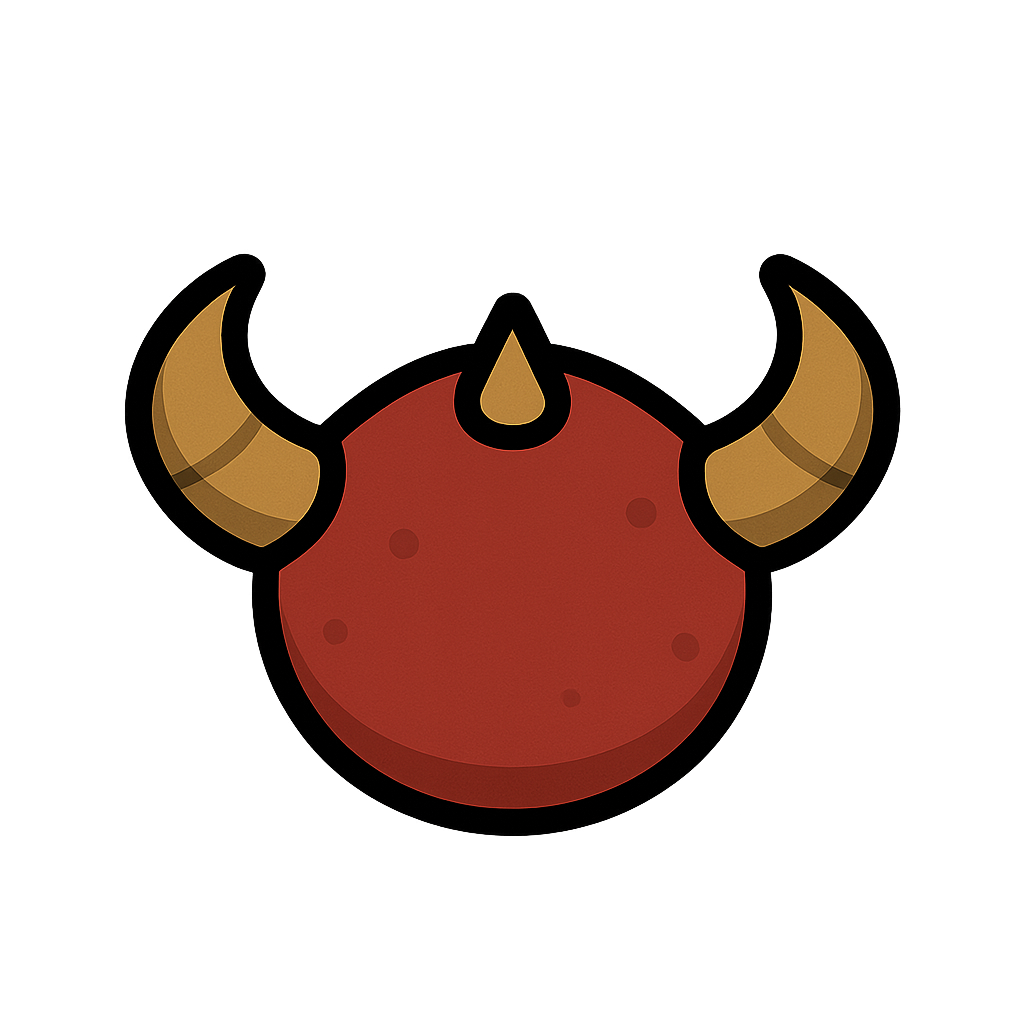
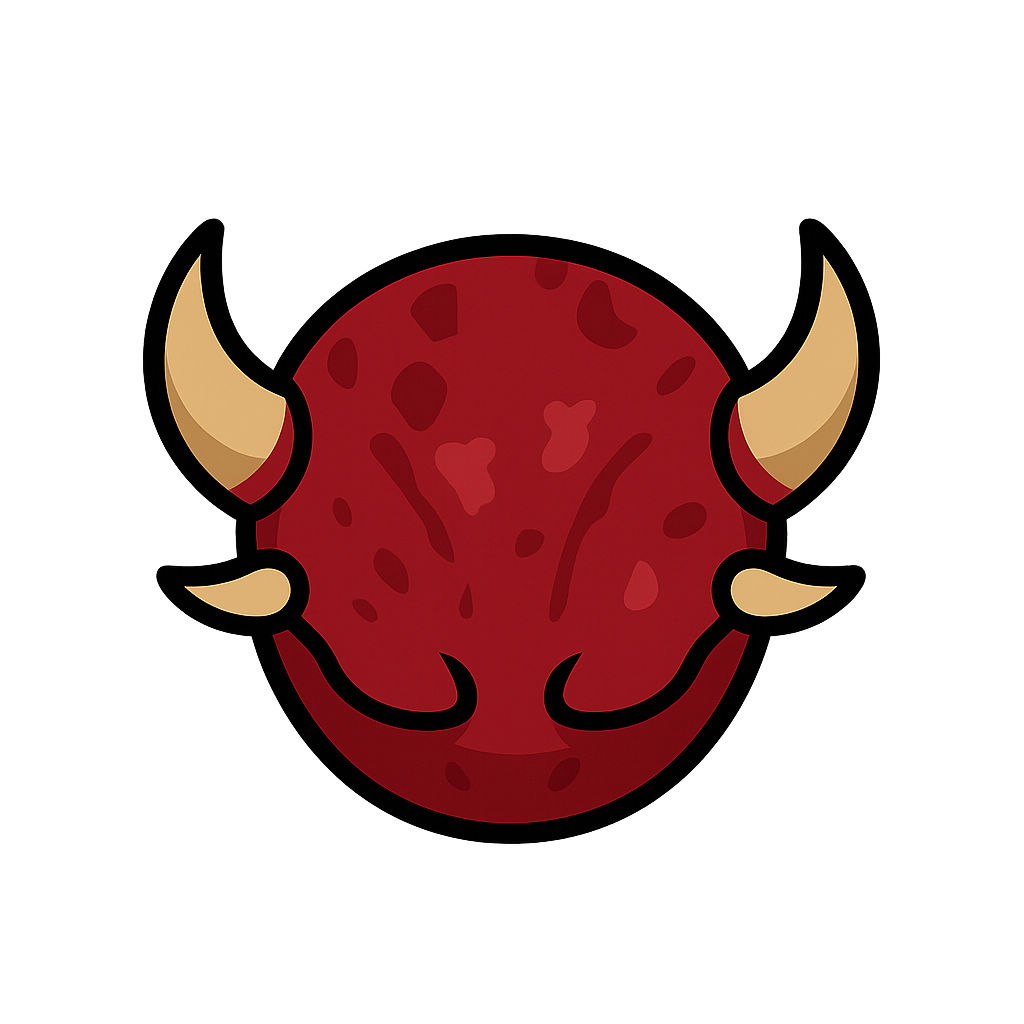
Enemy3 추가 완료

Changed region(s): [[0.125, 0.2188, 0.9062, 0.8438]]

diff --git a/ai.py b/ai.py
@@ -18,6 +18,7 @@ class AIBase(metaclass=EnemyMeta):
     def __init__(
         self, world_x, world_y, images, sounds, map_width, map_height,
         speed=3.0, near_threshold=150, far_threshold=500, radius=30, push_strength=0.18, alert_duration=1000,
+        damage_player_fn=None
     ):
         self.world_x = world_x
         self.world_y = world_y
@@ -25,6 +26,7 @@ class AIBase(metaclass=EnemyMeta):
         self.sounds = sounds
         self.map_width = map_width
         self.map_height = map_height
+        self.damage_player = damage_player_fn
 
         self.alive = True
         self._already_dropped = False
@@ -137,6 +139,9 @@ class AIBase(metaclass=EnemyMeta):
 
     def update(self, dt, world_x, world_y, player_rect, enemies=[]):
         if not self.alive or not config.combat_state:
+            return
+        
+        if not hasattr(config, "obstacle_manager") or config.obstacle_manager is None:
             return
 
         self.update_goal(world_x, world_y, player_rect, enemies)
@@ -326,7 +331,7 @@ class AIBase(metaclass=EnemyMeta):
         pass
 
 class Enemy1(AIBase):
-    def __init__(self, world_x, world_y, images, sounds, map_width, map_height, kill_callback=None):
+    def __init__(self, world_x, world_y, images, sounds, map_width, map_height, damage_player_fn=None, kill_callback=None):
         super().__init__(
             world_x, world_y, images, sounds, map_width, map_height,
             speed=NORMAL_MAX_SPEED * PLAYER_VIEW_SCALE * 0.7,
@@ -335,6 +340,7 @@ class Enemy1(AIBase):
             radius=30,
             push_strength=0.18,
             alert_duration=1000,
+            damage_player_fn=damage_player_fn
         )
         self.image_original = images["enemy1"]
         self.gun_image_original = pygame.transform.flip(images["gun1"], True, False)
@@ -413,7 +419,8 @@ class Enemy1(AIBase):
             15,
             self.bullet_image,
             speed=10 * PLAYER_VIEW_SCALE,
-            max_distance=2000 * PLAYER_VIEW_SCALE
+            max_distance=2000 * PLAYER_VIEW_SCALE,
+            damage=15
         )
         config.global_enemy_bullets.append(new_bullet)
 
@@ -454,7 +461,7 @@ class Enemy1(AIBase):
         screen.blit(rotated_img, rect)
 
 class Enemy2(AIBase):
-    def __init__(self, world_x, world_y, images, sounds, map_width, map_height, kill_callback=None):
+    def __init__(self, world_x, world_y, images, sounds, map_width, map_height, damage_player_fn=None, kill_callback=None):
         super().__init__(
             world_x, world_y, images, sounds, map_width, map_height,
             speed=NORMAL_MAX_SPEED * PLAYER_VIEW_SCALE * 0.5,
@@ -463,6 +470,7 @@ class Enemy2(AIBase):
             radius=30,
             push_strength=0.18,
             alert_duration=1000,
+            damage_player_fn=damage_player_fn
         )
         self.image_original = images["enemy2"]
         self.gun_image_original = pygame.transform.flip(images["gun2"], True, False)
@@ -590,7 +598,8 @@ class Enemy2(AIBase):
             spread_angle,
             self.bullet_image,
             speed=(bullet_speed if bullet_speed is not None else 10 * PLAYER_VIEW_SCALE),
-            max_distance=2000 * PLAYER_VIEW_SCALE
+            max_distance=2000 * PLAYER_VIEW_SCALE,
+            damage=20
         )
         config.global_enemy_bullets.append(new_bullet)
 
@@ -617,6 +626,219 @@ class Enemy2(AIBase):
         )
         gun_rect = rotated_gun.get_rect(center=(gun_pos_x, gun_pos_y))
         screen.blit(rotated_gun, gun_rect)
+        scaled_img = pygame.transform.smoothscale(
+            self.image_original,
+            (
+                int(self.image_original.get_width() * PLAYER_VIEW_SCALE),
+                int(self.image_original.get_height() * PLAYER_VIEW_SCALE)
+            )
+        )
+        rotated_img = pygame.transform.rotate(
+            scaled_img, -math.degrees(self.direction_angle) + 90
+        )
+        rect = rotated_img.get_rect(center=(screen_x, screen_y))
+        screen.blit(rotated_img, rect)
+
+class Enemy3(AIBase):
+    FAR_DISTANCE = 500
+    NEAR_DISTANCE = 100
+    RADIUS_CLOSE_ATTACK = 120
+
+    DASH_DISTANCE = 200
+    DASH_SPEED_MULTIPLIER = 3
+    DASH_DAMAGE = 30
+    CHARGE_TIME = 1000
+    COOLDOWN_MIN = 1000
+    COOLDOWN_MAX = 2000
+
+    CLOSE_ATTACK_CHARGE = 1000
+    CLOSE_ATTACK_COOLDOWN_MIN = 2000
+    CLOSE_ATTACK_COOLDOWN_MAX = 3000
+    CLOSE_ATTACK_DAMAGE = 30
+    CLOSE_ATTACK_SWEEP_TIME = 200
+    CLOSE_ATTACK_SPEED_PENALTY = 0.7
+
+    def __init__(self, world_x, world_y, images, sounds, map_width, map_height,
+                 damage_player_fn=None, kill_callback=None):
+        self.base_speed = NORMAL_MAX_SPEED * PLAYER_VIEW_SCALE * 0.8
+        super().__init__(
+            world_x, world_y, images, sounds, map_width, map_height,
+            speed=self.base_speed,
+            near_threshold=self.NEAR_DISTANCE,
+            far_threshold=self.FAR_DISTANCE,
+            radius=39,
+            push_strength=0.0,
+            alert_duration=1000,
+            damage_player_fn=damage_player_fn
+        )
+        self.image_original = images["enemy3"]
+        self.kill_callback = kill_callback
+        self.hp = 300
+        self.damage_player_fn = damage_player_fn
+
+        self.move_dir = random.choice([-1, 1])
+        self.move_change_interval = 800
+        self.last_move_change_time = pygame.time.get_ticks()
+
+        self.state = "normal"
+        self.fixed_angle = None
+        self.charge_start_time = 0
+        self.dash_start_x = 0
+        self.dash_start_y = 0
+        self.dash_cooldown_timer = random.randint(self.COOLDOWN_MIN, self.COOLDOWN_MAX)
+
+        self.close_state = "idle"
+        self.close_charge_start = 0
+        self.close_cooldown_timer = 0
+        self.close_sweep_start = 0
+        self.close_attack_angle = 0
+
+    def update_goal(self, world_x, world_y, player_rect, enemies):
+        player_world_pos = (world_x + player_rect.centerx, world_y + player_rect.centery)
+        dx = player_world_pos[0] - self.world_x
+        dy = player_world_pos[1] - self.world_y
+        dist_to_player = math.hypot(dx, dy)
+        now = pygame.time.get_ticks()
+
+        if self.dash_cooldown_timer > 0:
+            self.dash_cooldown_timer -= 16
+        if self.close_cooldown_timer > 0:
+            self.close_cooldown_timer -= 16
+
+        if self.close_state == "idle" and dist_to_player <= self.NEAR_DISTANCE and self.close_cooldown_timer <= 0:
+            self.close_state = "charging"
+            self.close_charge_start = now
+            self.close_attack_angle = math.atan2(dy, dx)
+            self.speed = self.base_speed * self.CLOSE_ATTACK_SPEED_PENALTY
+
+        elif self.close_state == "charging":
+            self.close_attack_angle = math.atan2(dy, dx)
+            if now - self.close_charge_start >= self.CLOSE_ATTACK_CHARGE:
+                px, py = player_world_pos
+                if self.damage_player_fn:
+                    rel_angle = math.atan2(py - self.world_y, px - self.world_x)
+                    angle_diff = (rel_angle - self.close_attack_angle + math.pi * 3) % (2 * math.pi) - math.pi
+                    dist = math.hypot(px - self.world_x, py - self.world_y)
+                    if abs(angle_diff) <= math.pi / 2 and dist <= self.RADIUS_CLOSE_ATTACK:
+                        self.damage_player_fn(self.CLOSE_ATTACK_DAMAGE)
+
+                self.close_state = "firing"
+                self.close_sweep_start = now
+                self.speed = self.base_speed
+
+        elif self.close_state == "firing":
+            self.close_attack_angle = math.atan2(dy, dx)
+            if now - self.close_sweep_start >= self.CLOSE_ATTACK_SWEEP_TIME:
+                self.close_state = "idle"
+                self.close_cooldown_timer = random.randint(self.CLOSE_ATTACK_COOLDOWN_MIN, self.CLOSE_ATTACK_COOLDOWN_MAX)
+
+        if self.state == "normal":
+            self.direction_angle = math.atan2(dy, dx)
+
+            if dist_to_player >= self.FAR_DISTANCE and self.dash_cooldown_timer <= 0 and self.close_state == "idle":
+                self.state = "charging_dash"
+                self.charge_start_time = now
+                self.fixed_angle = self.direction_angle
+                self.dash_start_x = self.world_x
+                self.dash_start_y = self.world_y
+                return
+
+            if now - self.last_move_change_time > self.move_change_interval:
+                self.move_dir = random.choice([-1, 1])
+                self.last_move_change_time = now
+
+            if dist_to_player > self.FAR_DISTANCE:
+                self.goal_pos = player_world_pos
+            elif self.NEAR_DISTANCE < dist_to_player <= self.FAR_DISTANCE:
+                angle_to_player = self.direction_angle
+                perp = angle_to_player + math.pi / 2
+                self.goal_pos = (
+                    self.world_x + math.cos(angle_to_player) * 100 + math.cos(perp) * 50 * self.move_dir,
+                    self.world_y + math.sin(angle_to_player) * 100 + math.sin(perp) * 50 * self.move_dir
+                )
+            else:
+                angle_to_player = self.direction_angle
+                perp = angle_to_player + math.pi / 2
+                self.goal_pos = (
+                    self.world_x + math.cos(perp) * 100 * self.move_dir,
+                    self.world_y + math.sin(perp) * 100 * self.move_dir
+                )
+
+        elif self.state == "charging_dash":
+            self.direction_angle = self.fixed_angle
+            self.goal_pos = (self.world_x, self.world_y)
+            if now - self.charge_start_time >= self.CHARGE_TIME:
+                self.state = "dashing"
+
+        elif self.state == "dashing":
+            dash_speed = self.speed * self.DASH_SPEED_MULTIPLIER
+            self.world_x += math.cos(self.fixed_angle) * dash_speed
+            self.world_y += math.sin(self.fixed_angle) * dash_speed
+
+            px, py = player_world_pos
+            if self.damage_player_fn:
+                if self.check_collision_circle((self.world_x, self.world_y), self.radius, (px, py), 15):
+                    self.damage_player_fn(self.DASH_DAMAGE)
+                    self.end_dash()
+                    return
+
+            if math.hypot(self.world_x - self.dash_start_x, self.world_y - self.dash_start_y) >= self.DASH_DISTANCE:
+                self.end_dash()
+
+    def end_dash(self):
+        self.state = "normal"
+        self.dash_cooldown_timer = random.randint(self.COOLDOWN_MIN, self.COOLDOWN_MAX)
+
+    def die(self, blood_effects):
+        if self._already_dropped:
+            return
+        super().die(blood_effects)
+        self.spawn_dropped_items(5, 6)
+
+    def draw(self, screen, world_x, world_y, shake_offset_x=0, shake_offset_y=0):
+        if not self.alive:
+            return
+        screen_x = self.world_x - world_x + shake_offset_x
+        screen_y = self.world_y - world_y + shake_offset_y
+
+        if self.close_state == "charging":
+            arc_surf = pygame.Surface((self.RADIUS_CLOSE_ATTACK * 2, self.RADIUS_CLOSE_ATTACK * 2), pygame.SRCALPHA)
+            center = (self.RADIUS_CLOSE_ATTACK, self.RADIUS_CLOSE_ATTACK)
+            start_angle = self.close_attack_angle - math.pi / 2
+            end_angle = self.close_attack_angle + math.pi / 2
+            points = [center]
+            steps = 30
+            for i in range(steps + 1):
+                ang = start_angle + (end_angle - start_angle) * (i / steps)
+                x = center[0] + math.cos(ang) * self.RADIUS_CLOSE_ATTACK
+                y = center[1] + math.sin(ang) * self.RADIUS_CLOSE_ATTACK
+                points.append((x, y))
+            pygame.draw.polygon(arc_surf, (255, 0, 0, 76), points)
+            screen.blit(arc_surf, (screen_x - self.RADIUS_CLOSE_ATTACK, screen_y - self.RADIUS_CLOSE_ATTACK))
+
+        if self.close_state == "firing":
+            progress = (pygame.time.get_ticks() - self.close_sweep_start) / self.CLOSE_ATTACK_SWEEP_TIME
+            line_angle = self.close_attack_angle - math.pi / 2 + math.pi * progress
+            line_surf = pygame.Surface((self.RADIUS_CLOSE_ATTACK * 2, self.RADIUS_CLOSE_ATTACK * 2), pygame.SRCALPHA)
+            pygame.draw.line(line_surf, (255, 255, 255, 150),
+                             (self.RADIUS_CLOSE_ATTACK, self.RADIUS_CLOSE_ATTACK),
+                             (self.RADIUS_CLOSE_ATTACK + math.cos(line_angle) * self.RADIUS_CLOSE_ATTACK,
+                              self.RADIUS_CLOSE_ATTACK + math.sin(line_angle) * self.RADIUS_CLOSE_ATTACK),
+                             14)
+            screen.blit(line_surf, (screen_x - self.RADIUS_CLOSE_ATTACK, screen_y - self.RADIUS_CLOSE_ATTACK))
+
+        if self.state == "charging_dash":
+            elapsed = pygame.time.get_ticks() - self.charge_start_time
+            rect_length = int((elapsed / self.CHARGE_TIME) * self.DASH_DISTANCE)
+            rect_width = 40
+            dx = math.cos(self.fixed_angle)
+            dy = math.sin(self.fixed_angle)
+            rect_surface = pygame.Surface((rect_length, rect_width), pygame.SRCALPHA)
+            rect_surface.fill((255, 0, 0, 76))
+            rect_surface = pygame.transform.rotate(rect_surface, -math.degrees(self.fixed_angle))
+            rect_rect = rect_surface.get_rect(center=(screen_x + dx * rect_length / 2, screen_y + dy * rect_length / 2))
+            screen.blit(rect_surface, rect_rect)
+
         scaled_img = pygame.transform.smoothscale(
             self.image_original,
             (

diff --git a/main.py b/main.py
@@ -284,6 +284,15 @@ weapon_ui_cache = {
     "resized_images": {}
 }
 
+def damage_player(amount):
+    global player_hp, damage_flash_alpha, shake_timer, shake_elapsed, shake_magnitude
+    player_hp = max(0, player_hp - amount)
+
+    damage_flash_alpha = 255
+    shake_timer = shake_timer_max
+    shake_elapsed = 0.0
+    shake_magnitude = 3
+
 def get_player_world_position():
     return (
         world_x + player_rect.centerx,
@@ -476,6 +485,7 @@ def change_room(direction):
                     sounds=sounds,
                     map_width=map_width,
                     map_height=map_height,
+                    damage_player_fn=damage_player,
                     kill_callback=increment_kill_count
                 )
                 enemies.append(enemy)
@@ -1527,7 +1537,7 @@ while running:
             player_center,
             player_radius
         ):
-            player_hp -= 20
+            player_hp -= bullet.damage
             damage_flash_alpha = 255
             shake_timer = shake_timer_max
             shake_elapsed = 0.0

diff --git a/asset_manager.py b/asset_manager.py
@@ -118,6 +118,9 @@ def load_images():
     enemy2_img = pygame.image.load(path_image("image", "character", "Enemy2.png")).convert_alpha()
     enemy2_img = pygame.transform.smoothscale(enemy2_img, (90, 90))
 
+    enemy3_img = pygame.image.load(path_image("image", "character", "Enemy3.png")).convert_alpha()
+    enemy3_img = pygame.transform.smoothscale(enemy3_img, (117, 117))
+
     ammo_gauge_up_img = pygame.image.load(path_image("Image", "AmmoGaugeUp.png")).convert_alpha()
     ammo_gauge_up_img = pygame.transform.smoothscale(ammo_gauge_up_img, (16, 16))
     health_up_img = pygame.image.load(path_image("Image", "HealthUp.png")).convert_alpha()
@@ -143,6 +146,7 @@ def load_images():
         "enemy_bullet": enemy_bullet_img,
         "enemy1": enemy1_img,
         "enemy2": enemy2_img,
+        "enemy3": enemy3_img,
         "ammo_gauge_up": ammo_gauge_up_img,
         "health_up": health_up_img,
         "cursor": cursor_img,

diff --git a/maps.py b/maps.py
@@ -1,6 +1,8 @@
 START_MAP = {
     "obstacles":[],
-    "enemy_infos":[],
+    "enemy_infos": [
+        {"x": 100, "y": 100, "enemy_type": "enemy3"}
+    ],
     "crop_rect": {
         "x_ratio": 0.5,
         "y_ratio": 0.5
@@ -15,7 +17,6 @@ END_MAP = {
         "y_ratio": 0.5
     }
 }
-
 
 FIGHT_MAP_1 = {
     "obstacles": [
